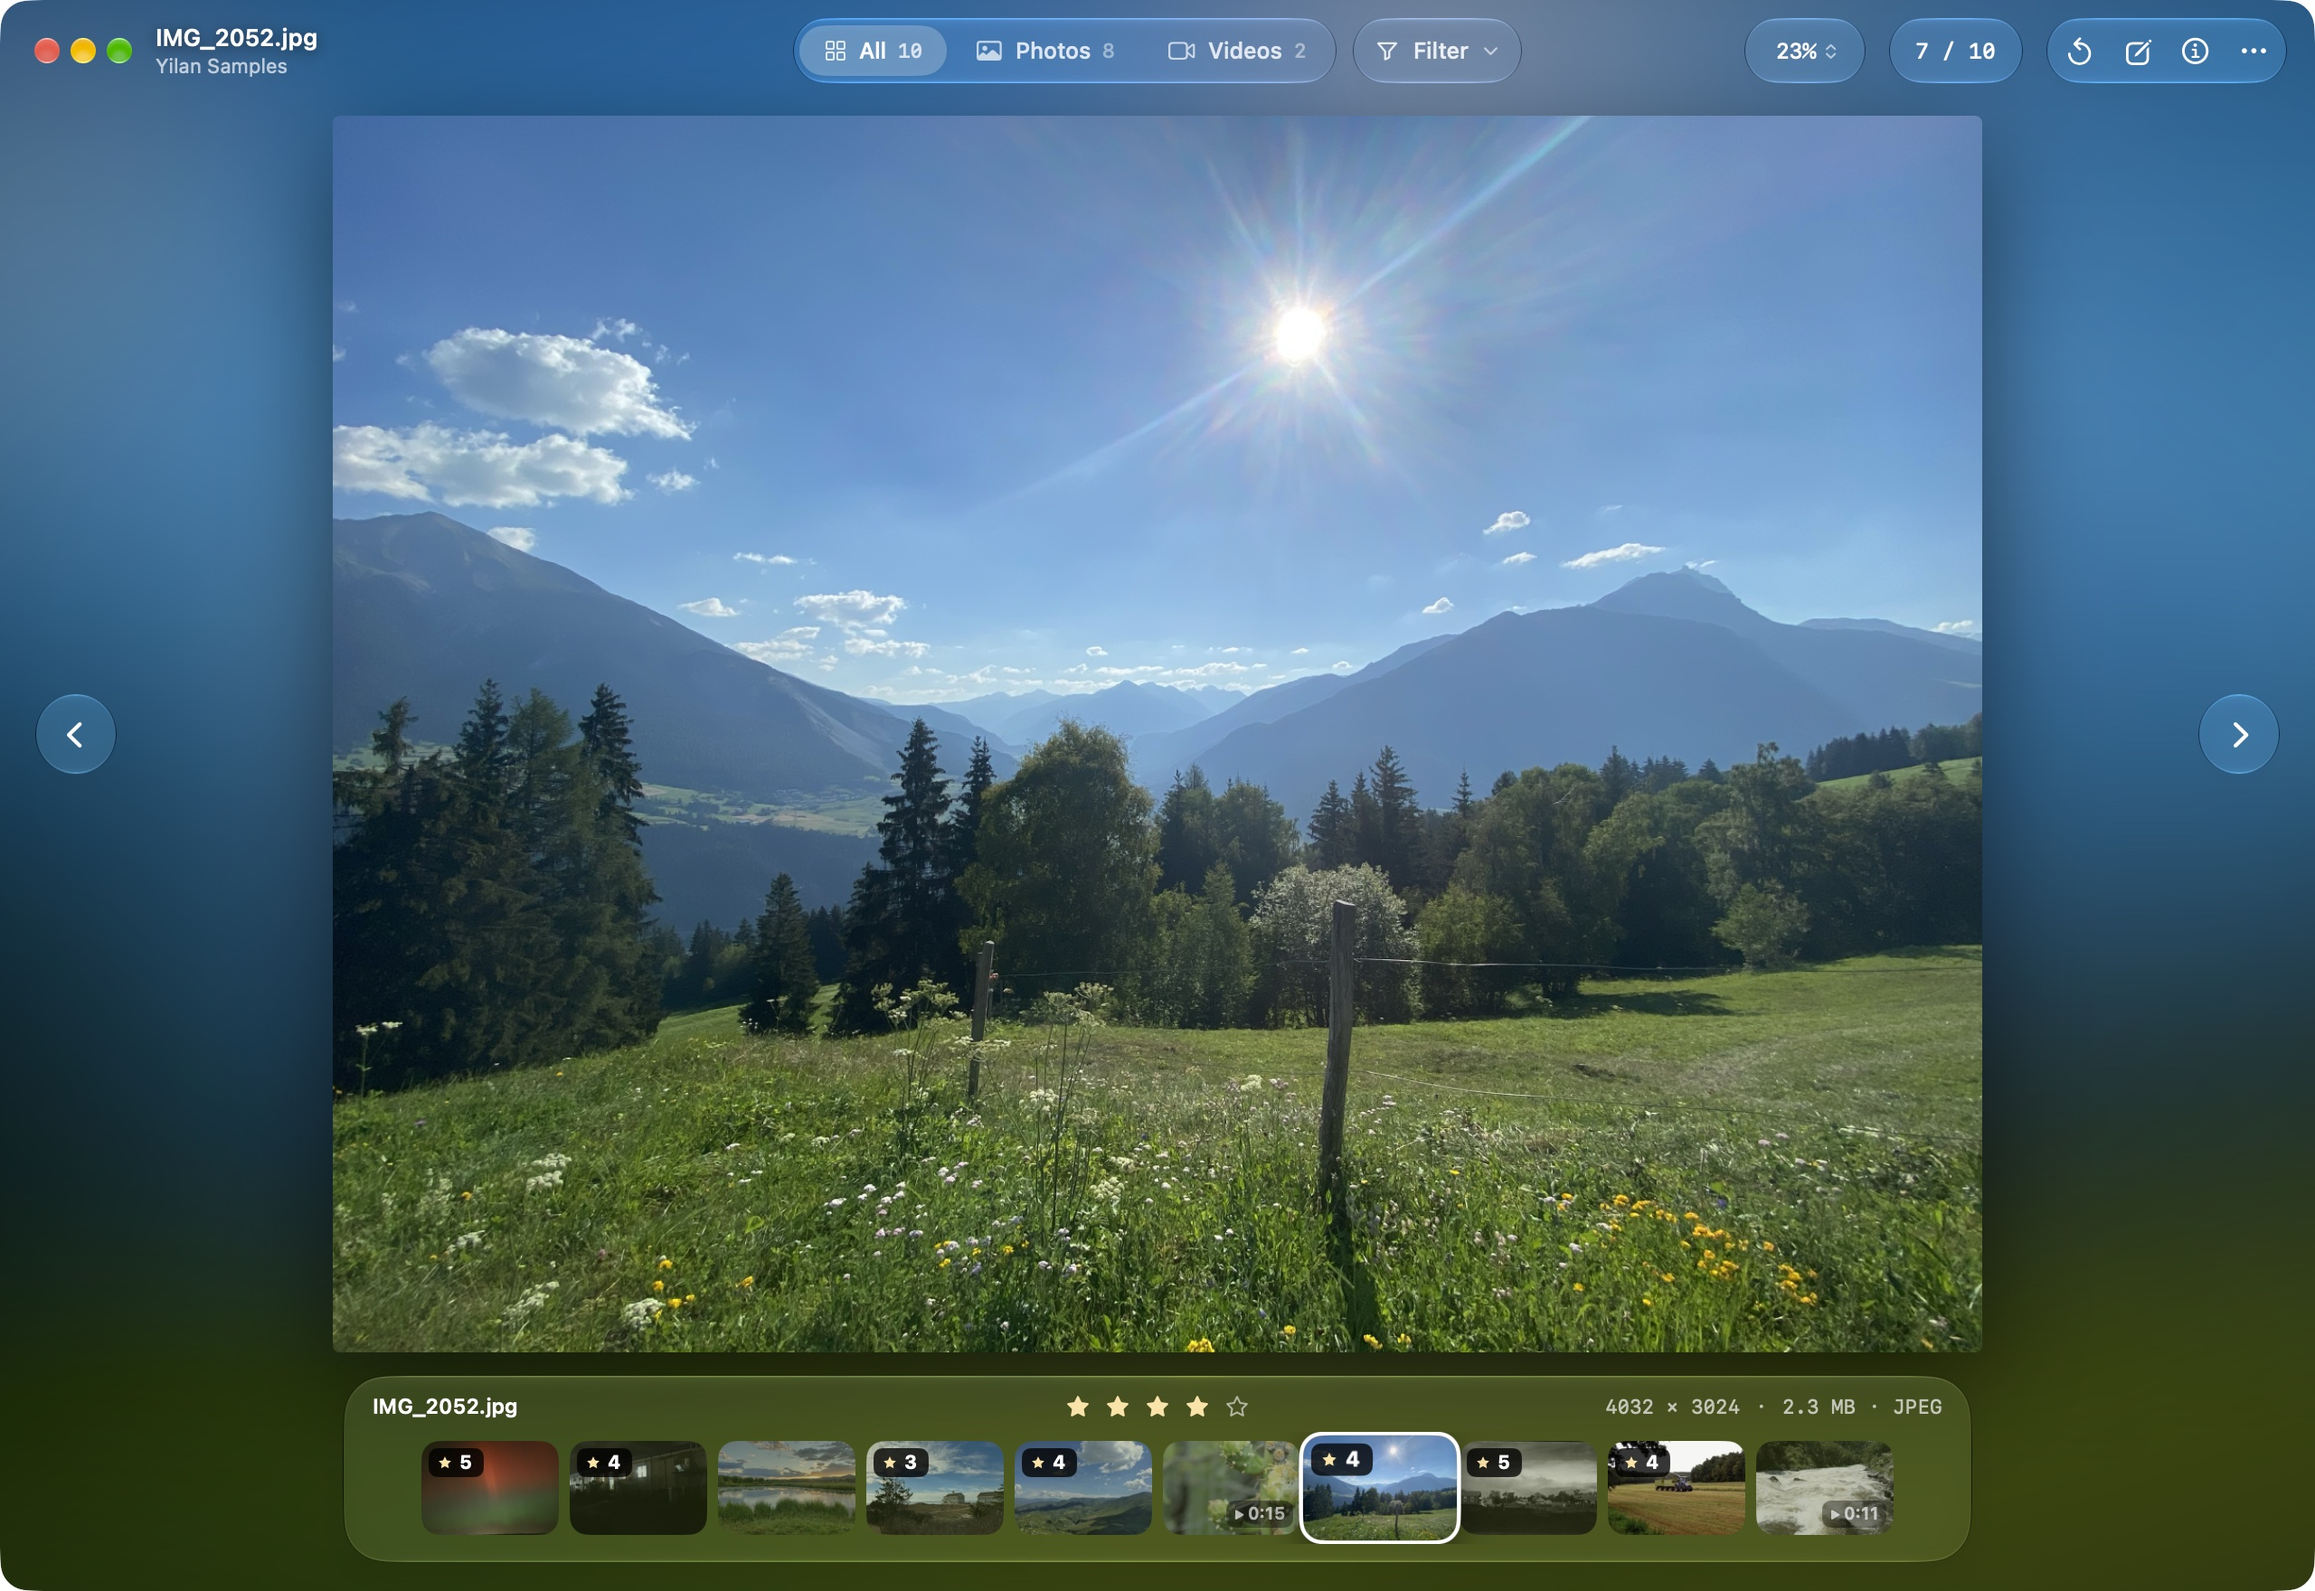
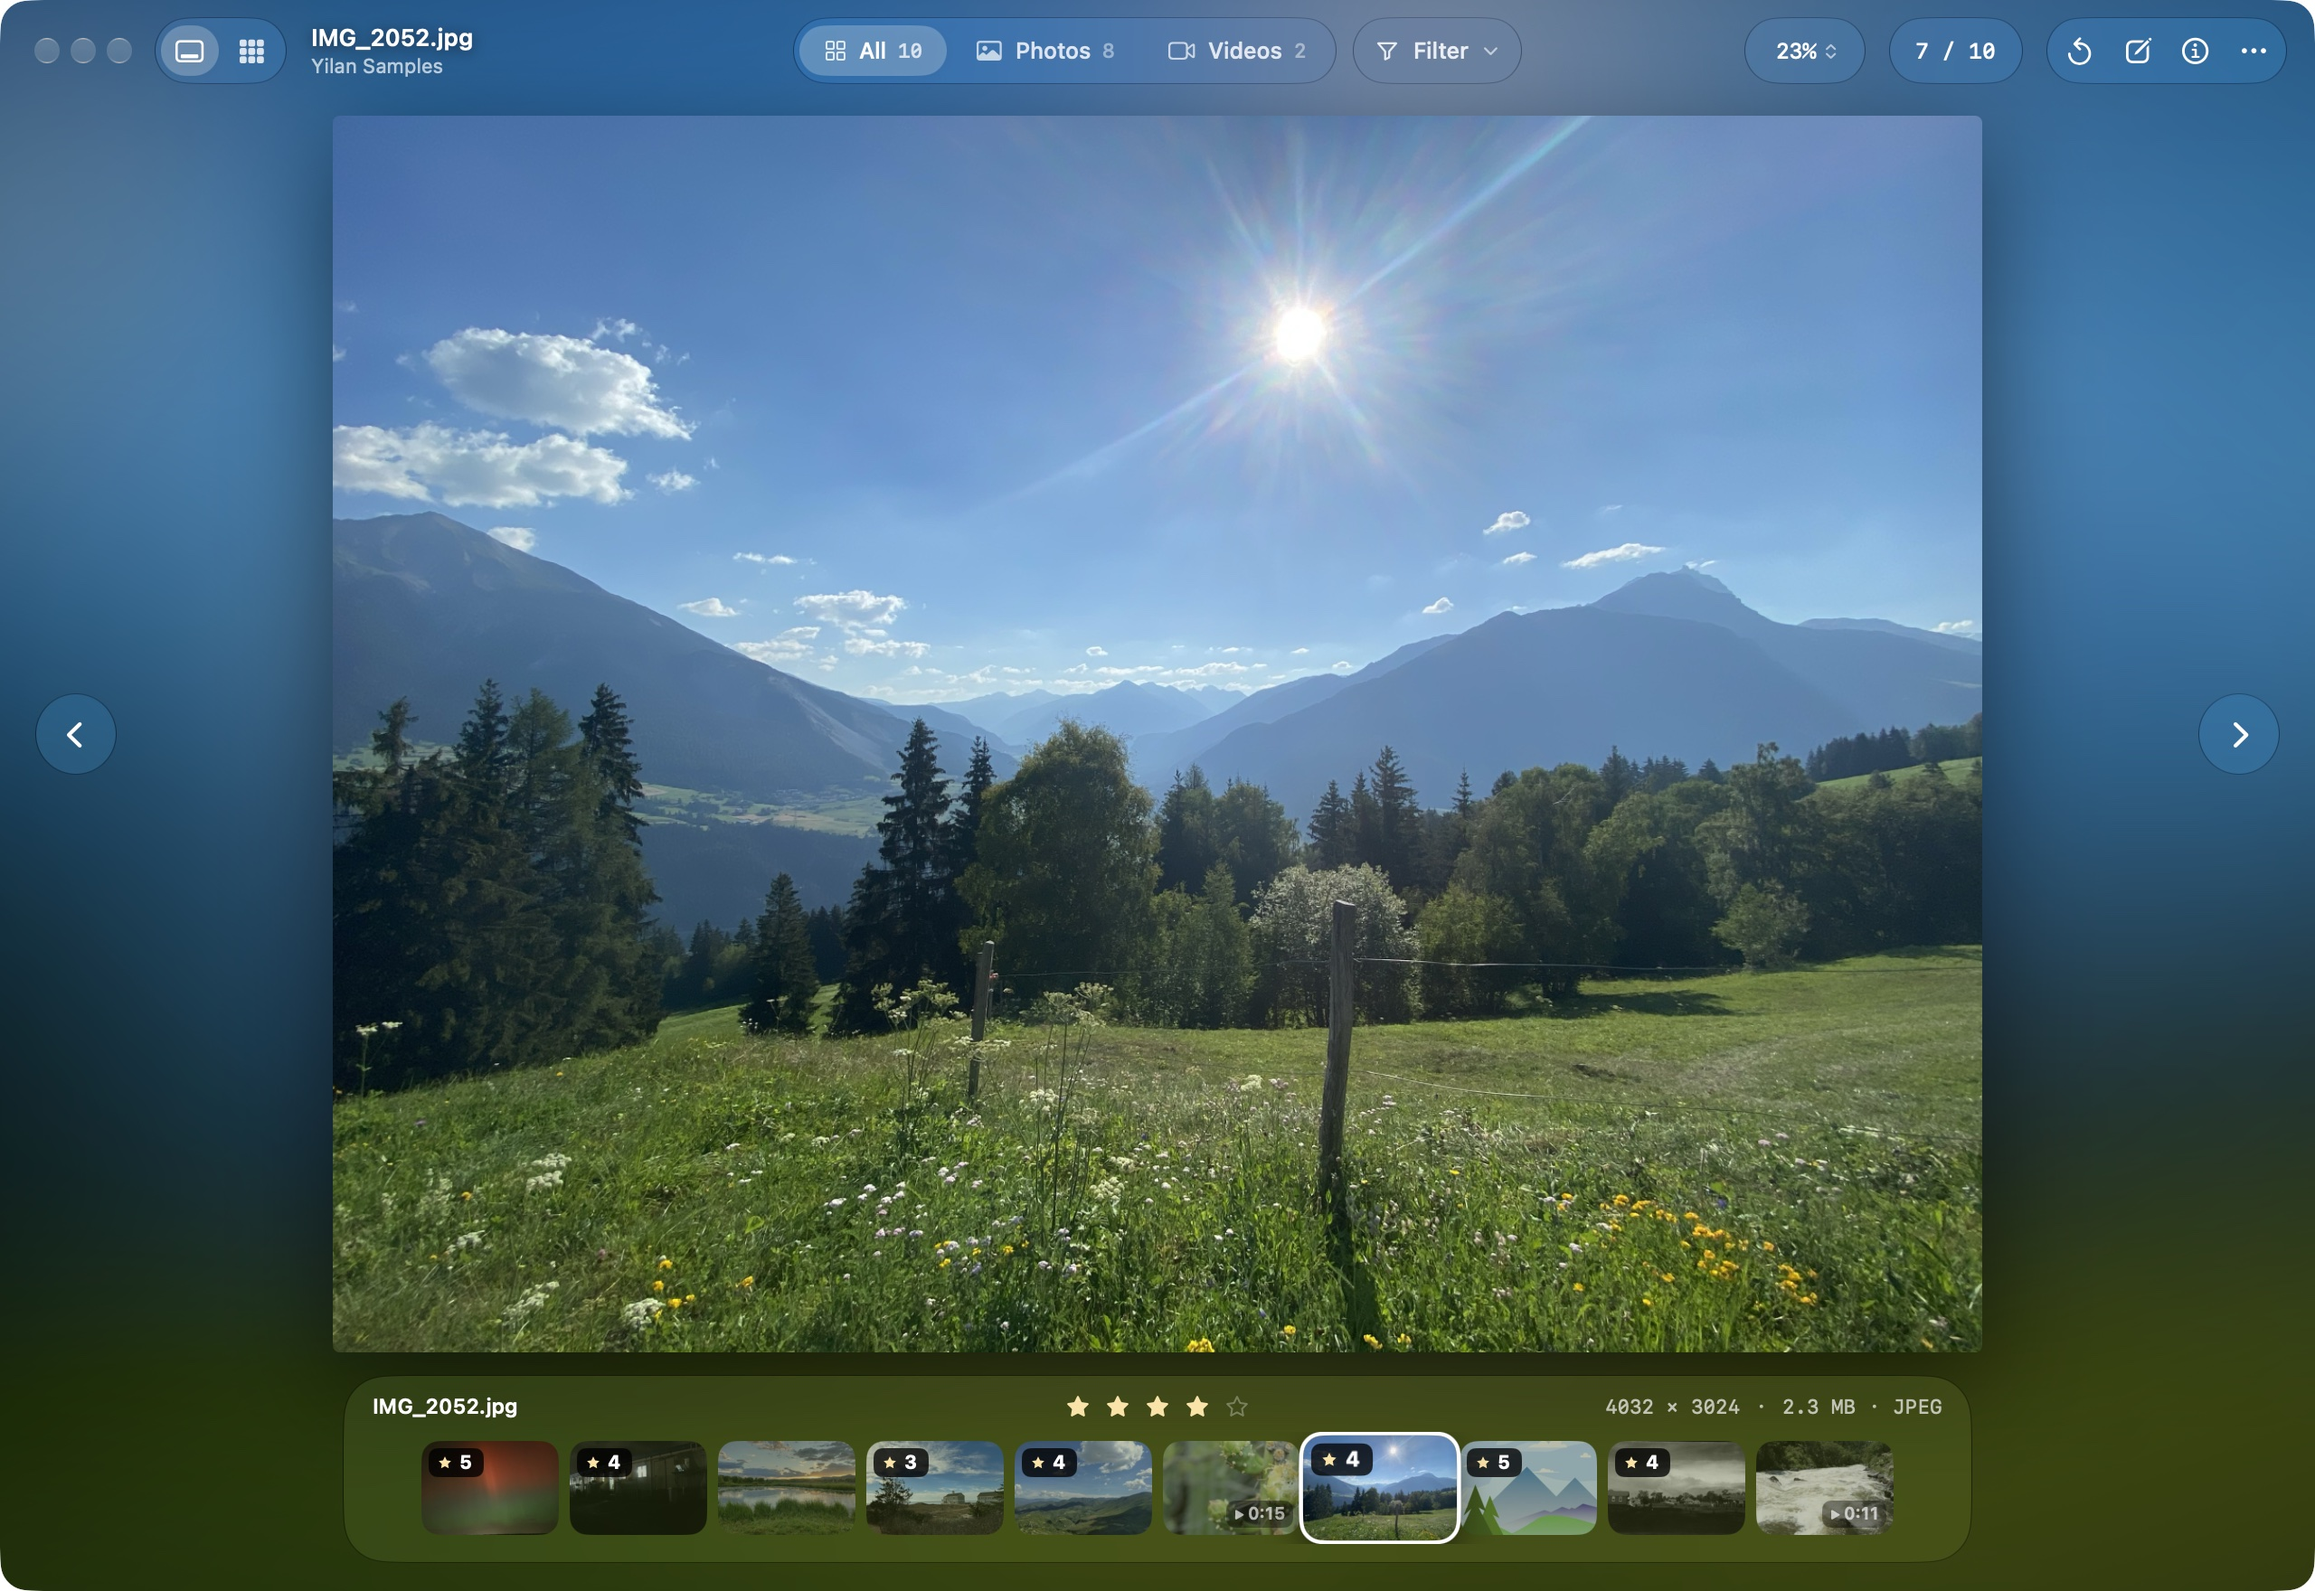
发布准备：版本号改为 0.5.0，README 补充 v0.5 功能，重拍截图并加图标视图截图

Changed region(s): [[0.0312, 0.0, 0.2188, 0.0625], [0.625, 0.9062, 0.7812, 0.9688], [0.9062, 0.0, 0.9375, 0.0625]]

diff --git a/README.md b/README.md
@@ -10,6 +10,8 @@
 
 <p align="center"><img src="docs/screenshots/en-browse.jpg" width="820" alt="Browsing a folder with the thumbnail strip"></p>
 
+<p align="center"><img src="docs/screenshots/en-grid.jpg" width="820" alt="Icon view with several photos selected"></p>
+
 <table>
   <tr>
     <td><img src="docs/screenshots/en-info.jpg" alt="Info panel with EXIF"></td>
@@ -28,6 +30,7 @@
 - Zoom, pan, double-click to toggle fit-to-window and actual size, rotate
 - New in v0.2: info panel (press I: file info and EXIF), move to Trash with ⌘Z undo, full screen (press F), live folder sync (new files are highlighted), and a keyboard shortcuts page in Settings
 - New in v0.3: star ratings (press 1 to 5; stored in a small `.xmp` file next to the photo, the photo is never changed), filter by rating and format (⌘F), basic editing (press E: crop, rotate, resize; saved as a copy by default), save rotation, a zoom control in the top bar, update reminders, and setting Yilan as the default app from Settings
+- New in v0.5: icon view (press G: thumbnails fill the window, like Finder), multiple selection with batch delete, copy, rating and copy / move to folder, right-click menus, copy files with ⌘C, straighten in the editor, Simple Mode (one switch that leaves only viewing and basic file actions), and a camera-preview fallback for RAW files your macOS cannot decode yet. RAW files are view-only: use Export as JPEG (⇧⌘E) to get an editable copy
 - UI languages: Simplified Chinese and English
 
 ## Requirements

diff --git a/README.zh-CN.md b/README.zh-CN.md
@@ -10,6 +10,8 @@
 
 <p align="center"><img src="docs/screenshots/zh-browse.jpg" width="820" alt="带缩略图栏的文件夹浏览"></p>
 
+<p align="center"><img src="docs/screenshots/zh-grid.jpg" width="820" alt="图标视图，选中了几张照片"></p>
+
 <table>
   <tr>
     <td><img src="docs/screenshots/zh-info.jpg" alt="带 EXIF 的信息面板"></td>
@@ -28,6 +30,7 @@
 - 缩放、拖动、双击在「适应窗口」和「实际大小」之间切换，旋转
 - v0.2 新增：信息面板（按 I，文件信息和 EXIF 拍摄信息）、移到废纸篓并可 ⌘Z 撤销、全屏（按 F）、文件夹变化自动同步（新文件带高亮）、按设计稿分组的快捷键设置页
 - v0.3 新增：评星（按 1 到 5，记在照片旁的 `.xmp` 小文件里，不改照片）、按星级和格式筛选（⌘F）、基本编辑（按 E：裁切、旋转、调整分辨率，默认另存副本）、保存旋转、顶部缩放控件、新版本提醒、在设置里设为默认打开方式
+- v0.5 新增：图标视图（按 G，缩略图铺满窗口，类似访达）、多选和批量删除 / 拷贝 / 评星 / 复制或移动到文件夹、右键菜单、⌘C 拷贝文件、编辑里的拉直、简洁模式（一个开关，只留看图和基本文件操作）、系统暂时解不了的 RAW 改为显示相机预览图。RAW 只看不改：要编辑先「导出为 JPEG」（⇧⌘E），再编辑导出的那一张
 - 界面语言：简体中文、English
 
 ## 系统要求
